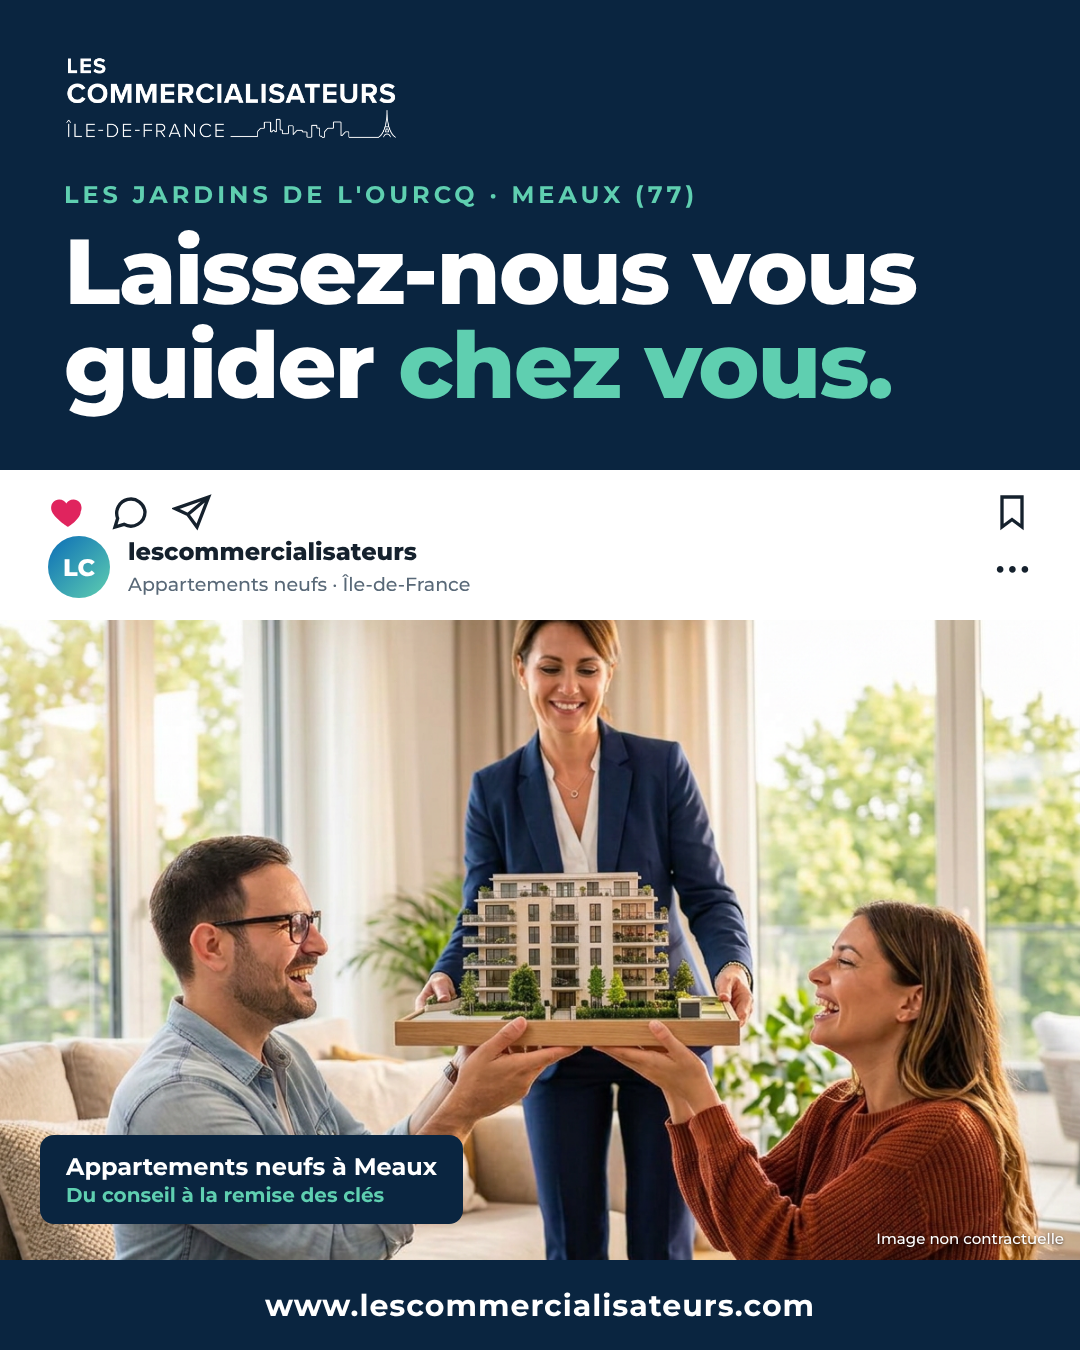
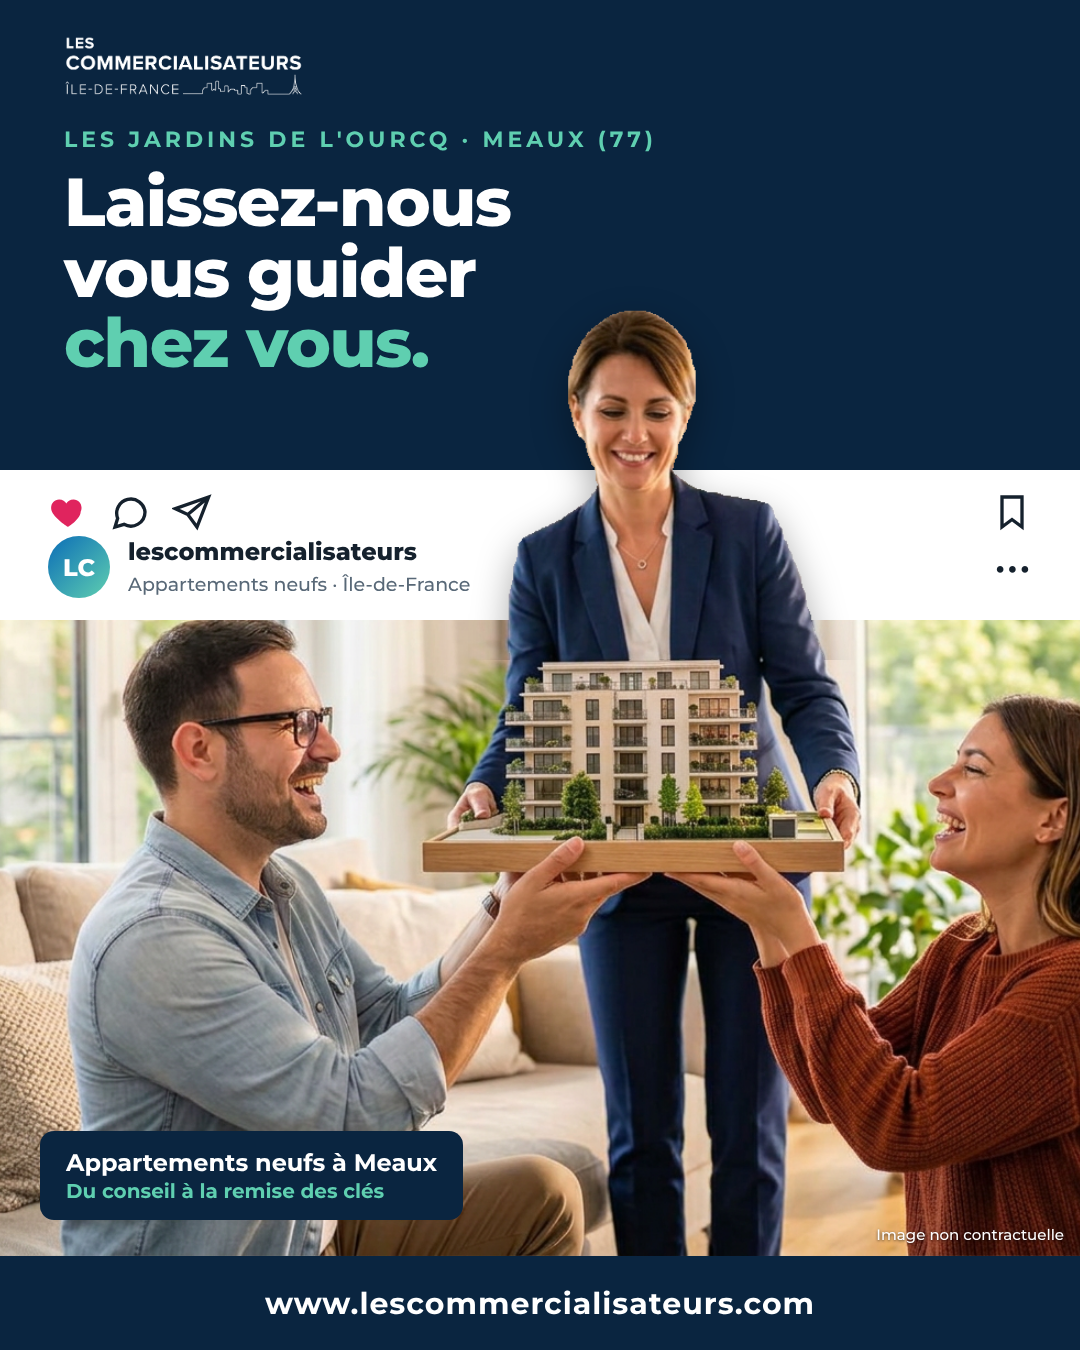
Add 3D pop-out effect to Les Commercialisateurs Instagram post
Claude-Session: https://claude.ai/code/session_013GNgWztrTmP26fiPFmaYbg

diff --git a/instagram/v2/post.html b/instagram/v2/post.html
@@ -4,10 +4,10 @@
 *{box-sizing:border-box;margin:0}
 :root{--navy:#0A2540;--blue:#0B6DB7;--teal:#5FCFB0;--ink:#15212D;--muted:#586877}
 body{width:1080px;height:1350px;font-family:Montserrat,Arial,sans-serif;background:var(--navy);position:relative;overflow:hidden}
-.top{position:absolute;inset:0 0 auto 0;height:470px;padding:56px 64px;color:#fff}
-.logo{height:84px}
-.eyebrow{margin-top:36px;font-size:24px;font-weight:700;letter-spacing:4px;color:var(--teal)}
-h1{margin-top:16px;font-size:92px;line-height:1.02;font-weight:800;letter-spacing:-2px}
+.top{position:absolute;inset:0 0 auto 0;height:470px;padding:36px 64px;color:#fff}
+.logo{height:60px}
+.eyebrow{margin-top:26px;font-size:22px;font-weight:700;letter-spacing:4px;color:var(--teal)}
+h1{margin-top:14px;font-size:68px;line-height:1.04;font-weight:800;letter-spacing:-1.5px}
 h1 span{color:var(--teal)}
 .bar{position:absolute;top:470px;left:0;right:0;height:150px;background:#fff;padding:22px 48px;display:flex;flex-direction:column;justify-content:space-between}
 .row{display:flex;align-items:center;gap:22px;font-size:26px;font-weight:700;color:var(--ink)}
@@ -17,18 +17,20 @@ h1 span{color:var(--teal)}
 .av img{width:56px}
 .acct b{display:block;font-size:24px;color:var(--ink)}
 .acct small{font-size:19px;color:var(--muted);font-weight:500}
-.photo{position:absolute;top:620px;left:0;right:0;height:640px;overflow:hidden}
-.photo img{width:100%;height:100%;object-fit:cover;object-position:center 40%}
+.photo{position:absolute;top:620px;left:0;right:0;height:636px;overflow:hidden}
+.photo>img{position:absolute;left:-60px;top:-350px;width:1320px}
+.pop{position:absolute;left:0;right:0;top:0;height:660px;overflow:hidden;pointer-events:none;z-index:5}
+.pop img{position:absolute;left:-60px;top:270px;width:1320px;filter:drop-shadow(0 14px 18px rgba(0,0,0,.35))}
 .nc{position:absolute;right:16px;bottom:12px;font-size:15px;color:#fff;text-shadow:0 1px 3px rgba(0,0,0,.7)}
 .tag{position:absolute;left:40px;bottom:36px;background:var(--navy);color:#fff;padding:16px 26px;border-radius:14px;font-size:24px;font-weight:700;line-height:1.3}
 .tag span{color:var(--teal);display:block;font-size:20px}
-.foot{position:absolute;bottom:0;left:0;right:0;height:90px;display:flex;align-items:center;justify-content:center;color:#fff;font-size:30px;font-weight:600;letter-spacing:1px}
+.foot{position:absolute;bottom:0;left:0;right:0;height:94px;display:flex;align-items:center;justify-content:center;color:#fff;font-size:30px;font-weight:600;letter-spacing:1px}
 svg{width:40px;height:40px}
 </style></head><body>
 <div class="top">
 <img class="logo" src="logo-blanc.png" alt="">
 <div class="eyebrow">LES JARDINS DE L'OURCQ · MEAUX (77)</div>
-<h1>Laissez-nous vous<br>guider <span>chez vous.</span></h1>
+<h1>Laissez-nous<br>vous guider<br><span>chez vous.</span></h1>
 </div>
 <div class="bar">
 <div class="row">
@@ -41,5 +43,6 @@ svg{width:40px;height:40px}
 <div class="row"><div class="acct"><div class="av" style="background:linear-gradient(135deg,#0B6DB7,#5FCFB0);color:#fff;font-size:24px;font-weight:800;border:0">LC</div><div><b>lescommercialisateurs</b><small>Appartements neufs · Île-de-France</small></div></div><span class="sp"></span><span style="font-size:34px;letter-spacing:2px">···</span></div>
 </div>
 <div class="photo"><img src="scene.png" alt=""><div class="tag">Appartements neufs à Meaux<span>Du conseil à la remise des clés</span></div><div class="nc">Image non contractuelle</div></div>
+<div class="pop"><img src="advisor.png" alt=""></div>
 <div class="foot">www.lescommercialisateurs.com</div>
 </body></html>
